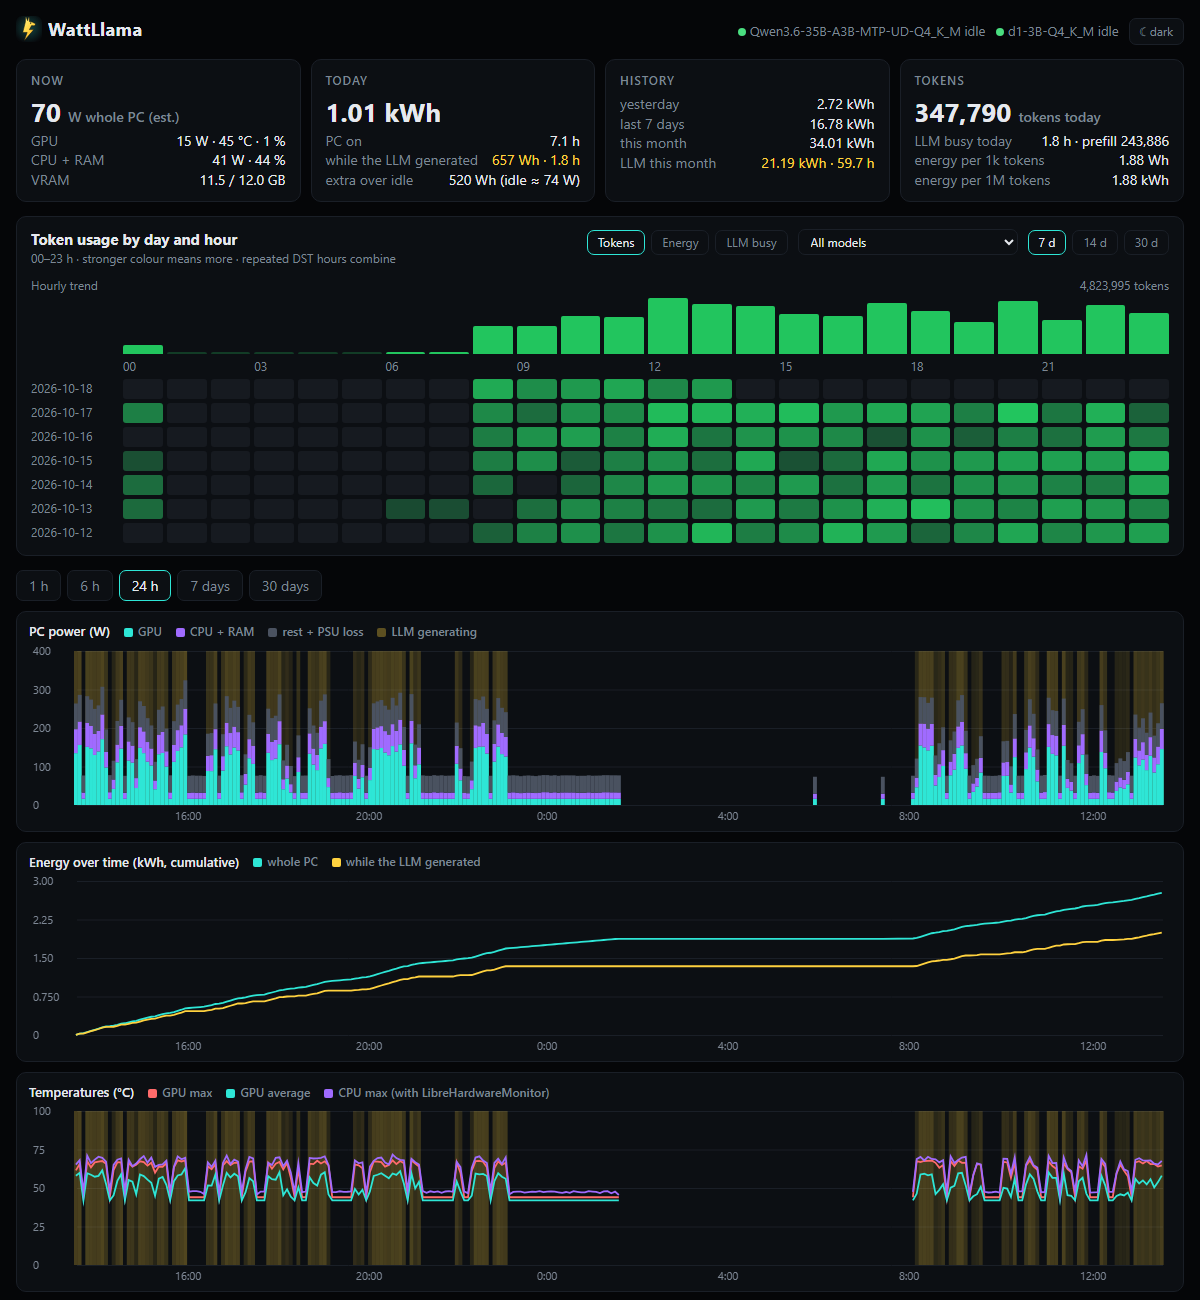
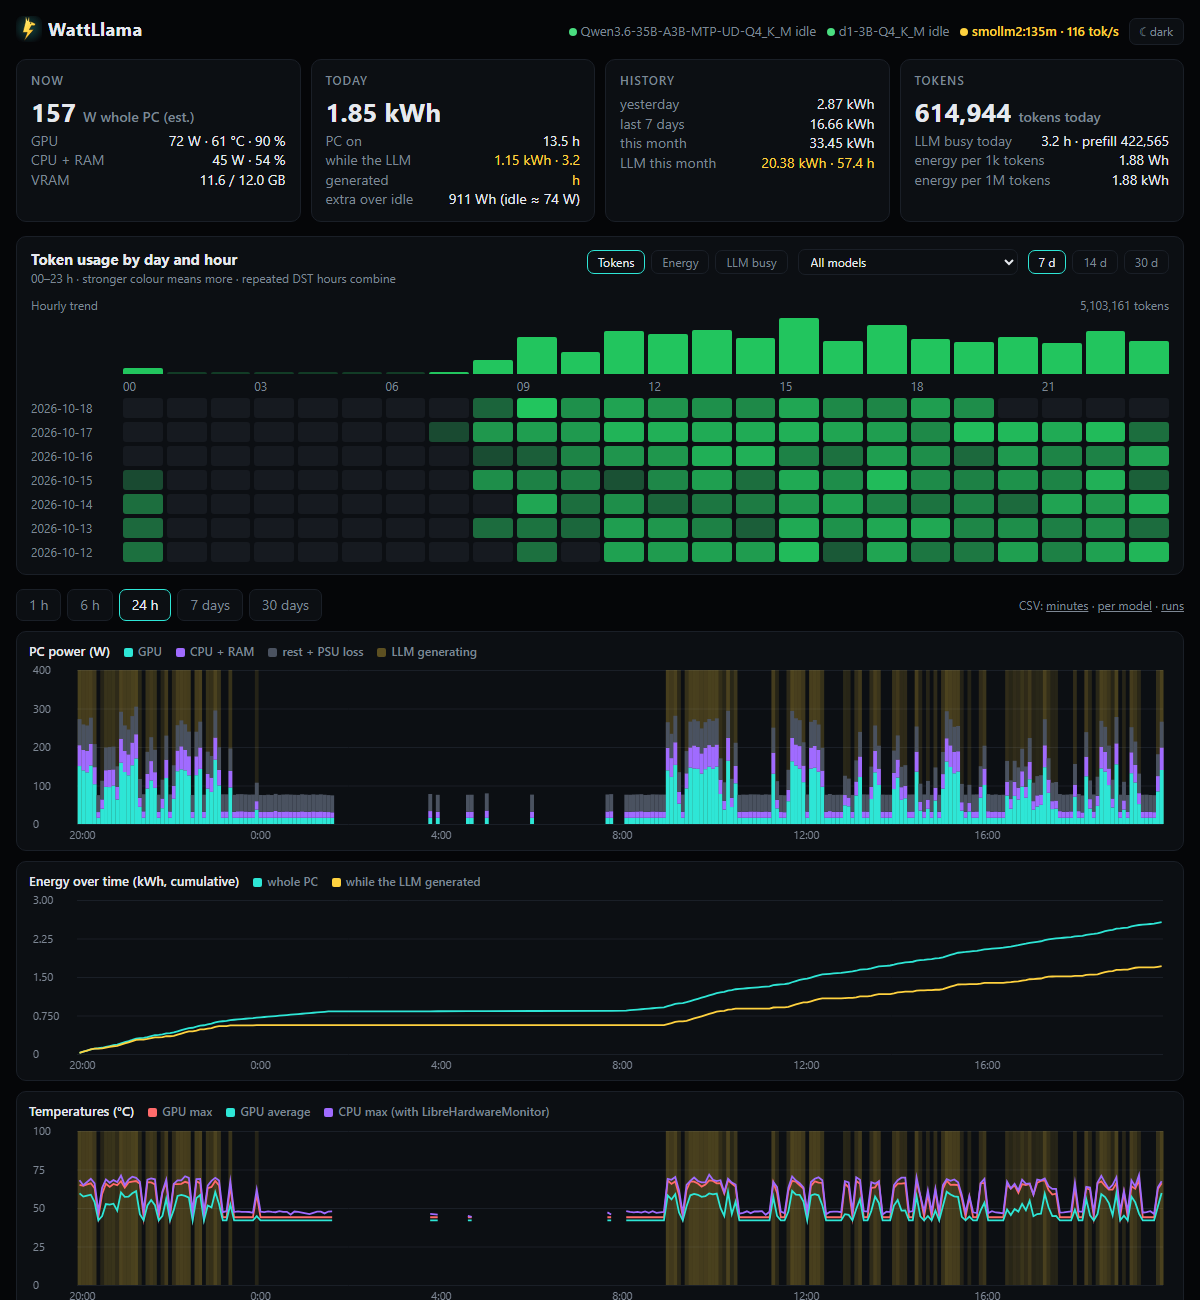
README, screenshots and tour GIF for three engines
- README: llama.cpp, Ollama and LM Studio, a Connect your engine table,
  community results, CSV export, AMD / Intel GPUs via LHM, CI badge,
  Contributing section
- docs/tour.gif (3 MB): scroll through the page, dark then light
- Fresh screenshots with llama.cpp and Ollama models side by side and
  the Share your result box; pi and scheduled-task sections left out
- install.ps1 reports which engines are running
- .env.example documents the new engine settings

Claude-Session: https://claude.ai/code/session_01YHG7T2pdjgU3CK5mz3QJLH

diff --git a/docs/social-preview.html b/docs/social-preview.html
@@ -35,7 +35,7 @@
   <div class="left">
     <div class="brand"><img src="logo.svg" alt=""><h1>Watt<span>Llama</span></h1></div>
     <div class="tag">How many watts does your <b>local LLM</b> really burn?</div>
-    <div class="sub">Live power, temperature and energy-per-token dashboard<br>for Windows + llama.cpp</div>
+    <div class="sub">Live power, temperature and energy-per-token dashboard<br>for Windows · llama.cpp · Ollama · LM Studio</div>
     <div class="chips"><span class="y">⚡ Wh / 1k tokens</span><span>no admin</span><span>no drivers</span><span>0 dependencies</span></div>
   </div>
 </body>

diff --git a/README.md b/README.md
@@ -6,19 +6,21 @@
 
 <p align="center">
   <b>How many watts does your local LLM really burn?</b><br>
-  A live power, temperature and token dashboard for Windows PCs running llama.cpp.<br>
+  A live power, temperature and energy-per-token dashboard for Windows PCs running
+  <b>llama.cpp</b>, <b>Ollama</b> or <b>LM Studio</b>.<br>
   No drivers, no admin rights, no Docker, no npm packages. One small Node.js process.
 </p>
 
 <p align="center">
+  <a href="https://github.com/depthark/wattllama/actions/workflows/ci.yml"><img alt="CI" src="https://github.com/depthark/wattllama/actions/workflows/ci.yml/badge.svg"></a>
   <img alt="Windows 10/11" src="https://img.shields.io/badge/Windows-10%20%7C%2011-0078D4">
   <img alt="Node.js 22.13+" src="https://img.shields.io/badge/Node.js-22.13%2B-339933">
-  <img alt="llama.cpp" src="https://img.shields.io/badge/llama.cpp-server%20%26%20router-ffd23f">
+  <img alt="Engines" src="https://img.shields.io/badge/engines-llama.cpp%20%7C%20Ollama%20%7C%20LM%20Studio-ffd23f">
   <img alt="0 dependencies" src="https://img.shields.io/badge/dependencies-0-2ee6d6">
   <img alt="MIT" src="https://img.shields.io/badge/license-MIT-a06bff">
 </p>
 
-![WattLlama dark theme](docs/screenshot-dark.png)
+![WattLlama tour: overview, hardware, models, light and dark theme](docs/tour.gif)
 
 ## Why
 
@@ -33,36 +35,43 @@ WattLlama answers the questions a local-LLM user actually has:
 - **Is my GPU power limit costing me speed?** Generate at different limits and the efficiency table
   shows tokens per second and tokens per Wh for each, the "same speed for 100 W less" check
   from GPU undervolting videos, but for LLM inference.
-- **What exactly is running?** Every loaded model with its real llama.cpp arguments, and how hot
-  everything gets.
+- **How does my PC compare?** Share your numbers in one click to the [community results](RESULTS.md).
+
+It does not matter which chat app, agent or IDE plugin you use: WattLlama watches the **engine**,
+so every client that talks to it is counted.
 
 ## Features
 
 | | |
 |---|---|
 | ⚡ **Power** | Whole-PC watts (GPU, CPU package, RAM measured; rest + PSU loss estimated), history from 1 hour to 30 days, cumulative energy curve |
-| 🦙 **Every model separately** | Router mode with several models (e.g. a chat model on the GPU and a small classifier on the CPU): live state, tok/s, requests, tokens in/out, busy time, energy while busy |
+| 🦙 **Every model separately** | llama.cpp (server or router), Ollama and LM Studio, several models and engines at once: live state, tok/s, requests, tokens in/out, busy time, energy while busy |
 | 🔥 **Heatmap** | Day × hour grid of tokens, energy or busy time for all models or one, 7 / 14 / 30 days |
-| 🌡 **Hardware** | GPU temperature, fan, clocks, VRAM, P-state, PCIe link, *why it is throttled*; CPU load, effective clock, RAM, disk I/O. CPU core temperatures, fans and SSD temperatures via [LibreHardwareMonitor](https://github.com/LibreHardwareMonitor/LibreHardwareMonitor) (optional) |
+| 🌡 **Hardware** | NVIDIA: temperature, fan, clocks, VRAM, P-state, PCIe link, *why it is throttled*. CPU load, effective clock, RAM, disk I/O. With [LibreHardwareMonitor](https://github.com/LibreHardwareMonitor/LibreHardwareMonitor) (optional): CPU core temperatures, fans, SSDs, and **AMD Radeon / Intel Arc** GPU power |
 | 🎚 **GPU power limit** | Optional: set the NVIDIA power limit from the page (UAC-confirmed, safe range) and compare efficiency per limit |
 | 📋 **Runs** | One row per generation run: model, duration, requests, tokens, tok/s, Wh, Wh per 1k tokens |
-| ⚙ **Setup at a glance** | llama.cpp arguments per model (secrets masked), [pi](https://github.com/badlogic/pi-mono) agent settings (tools, skills, extensions) if you use it, chosen Windows scheduled tasks with last/next run |
+| 🏆 **Community results** | Turn your numbers into a prefilled GitHub issue for [RESULTS.md](RESULTS.md); you see exactly what is shared |
+| ⚙ **Setup at a glance** | The real arguments each model runs with (secrets masked), [pi](https://github.com/badlogic/pi-mono) agent settings if you use it, chosen Windows scheduled tasks with last/next run |
+| 📤 **CSV export** | Minutes, per-model minutes and runs, for your own spreadsheets |
 | 🌓 **Light & dark** | Follows Windows, or pick one |
 | 🪶 **Featherweight** | Measured: **0.02 % CPU, ~150 MB RAM** in total; generation speed unchanged (54–60 tok/s with and without it) |
 
 <details>
-<summary>More screenshots</summary>
+<summary>Screenshots</summary>
 
+![Dark theme](docs/screenshot-dark.png)
 ![Light theme](docs/screenshot-light.png)
 ![Hardware and power limit](docs/hardware.png)
-![Models with their llama.cpp arguments](docs/models.png)
+![Models from llama.cpp and Ollama side by side, with their arguments](docs/models.png)
+![Share your result](docs/share.png)
 
 </details>
 
 ## Install
 
 Requirements: Windows 10 (1809+) or 11, [Node.js](https://nodejs.org) 22.13 or newer
-(`winget install OpenJS.NodeJS.LTS`). An NVIDIA GPU and llama.cpp are optional; without them you get CPU and system power only.
+(`winget install OpenJS.NodeJS.LTS`). A GPU and an inference engine are optional; without them you
+get CPU and system power only.
 
 ```powershell
 git clone https://github.com/depthark/wattllama
@@ -70,29 +79,49 @@ cd wattllama
 powershell -ExecutionPolicy Bypass -File .\install.ps1
 ```
 
-The installer checks what your PC can measure, creates `.env`, registers a scheduled task that
-starts WattLlama when you log in (current user, no admin), and opens **http://127.0.0.1:8091**.
+The installer checks what your PC can measure and which engines are running, creates `.env`,
+registers a scheduled task that starts WattLlama when you log in (current user, no admin), and
+opens **http://127.0.0.1:8091**.
 
 Just want to look first? `node server.mjs --demo` serves the page with 14 days of sample history
 (in memory, nothing saved).
 
 Uninstall: `.\uninstall.ps1` (keeps your history in `data\`; add `-RemoveData` to delete it).
 
-### Connect llama.cpp
+## Connect your engine
 
-It works with a single `llama-server` and with the router (`--models-dir` / `--models-preset`),
-with any number of loaded models. Point it at the server in `.env`:
+All three are found automatically on their default ports. An engine that is not running costs
+nothing; it is asked again every 10 s and appears when you start it.
 
-```ini
-DASH_LLAMA_URL=http://127.0.0.1:8080
-```
+| Engine | Found at | Tokens | Generating now |
+|---|---|---|---|
+| **llama.cpp** `llama-server`, router too | `DASH_LLAMA_URL` (:8080) | exact from its log (`DASH_LLAMA_LOG`) or `--metrics`; else `/slots` (close) | `/slots` |
+| **Ollama** (the app or `ollama serve`) | `OLLAMA_HOST` or :11434 | exact from `%LOCALAPPDATA%\Ollama\server.log`; else `/slots` (close) | the model's llama-server `/slots` |
+| **LM Studio** (Developer → Start server) | `DASH_LMSTUDIO_URL` (:1234) | exact, LM Studio's own stats via `lms log stream` | between a prediction's start and end |
 
-Token counts, best source first:
+<details>
+<summary>Details per engine</summary>
 
-1. **`DASH_LLAMA_LOG`** = the file llama-server's output is redirected to. Exact, per model, also for
-   models that produce no text (classifiers, embeddings).
-2. **`--metrics`** on the server. Exact.
-3. Otherwise `/slots`. Close, but the last moments of each reply can be missed.
+**llama.cpp.** Works with a single `llama-server` and with the router (`--models-dir` /
+`--models-preset`) with any number of loaded models. For exact counts, redirect the server's output
+to a file and point `DASH_LLAMA_LOG` at it, or start it with `--metrics`. If it uses `--api-key`,
+set `DASH_LLAMA_API_KEY`. WattLlama never asks the router about a model that is not loaded, because
+that would load it.
+
+**Ollama.** Recent Ollama (tested with 0.40.6) runs each model as an upstream llama-server process and writes its
+output to `server.log`, which gives the same exact counts. The **prefill** column counts tokens that
+were actually computed; prompt-cache hits are not counted (Ollama's `prompt_eval_count` includes them).
+Models served by another Ollama runner show as loaded, without token counts.
+
+**LM Studio.** Token counts need the `lms` CLI, which LM Studio installs in
+`%USERPROFILE%\.lmstudio\bin`. WattLlama starts `lms log stream` only while the server answers and
+always with an explicit port, so it never launches LM Studio. Prompts and replies pass through that
+stream; WattLlama reads only the model name and the numbers, and never stores, logs or shows text.
+
+**Something else?** vLLM, KoboldCpp, llama-swap, Jan, … An adapter is one file:
+see [CONTRIBUTING.md](CONTRIBUTING.md#adding-an-engine).
+
+</details>
 
 ### Phone / other devices
 
@@ -104,16 +133,18 @@ Serves on your network, adds a firewall rule for private networks only, and sets
 token. It prints a link to open once on the phone. Handy because a browser tab on the same PC
 uses some VRAM, which matters when the model fills the card.
 
-### CPU temperatures, fans, SSDs
+### CPU temperatures, fans, SSDs, AMD and Intel GPUs
 
-Windows has no driver-free way to read CPU core temperatures. Run
+Windows has no driver-free way to read CPU core temperatures, or the power of AMD and Intel GPUs. Run
 [LibreHardwareMonitor](https://github.com/LibreHardwareMonitor/LibreHardwareMonitor), enable
 *Options → Remote Web Server → Run*, and set `DASH_LHM_URL=http://127.0.0.1:8085`. Every temperature
-and fan it sees shows up, and CPU temperature joins the history chart.
+and fan it sees shows up, CPU temperature joins the history chart, and discrete Radeon and Arc cards
+get a GPU card and count towards whole-PC watts. (Integrated graphics are already inside the CPU
+package power.)
 
 ### GPU power limit
 
-Off by default. With `DASH_ALLOW_POWER_LIMIT=1` the GPU card gets a slider:
+Off by default. With `DASH_ALLOW_POWER_LIMIT=1` each NVIDIA card gets a slider:
 
 - only from the PC itself (not from the network), only from WattLlama's own page;
 - only between **60 % of the card's default** and its maximum, inside the range NVIDIA's driver allows;
@@ -127,25 +158,27 @@ Then run your usual prompts at a few limits and read the *Efficiency by GPU powe
 
 | What | Source | Accuracy |
 |---|---|---|
-| GPU power, temperature, clocks, VRAM, throttle reasons | `nvidia-smi` streaming every 2 s, one process | measured |
+| NVIDIA GPU power, temperature, clocks, VRAM, throttle reasons | `nvidia-smi` streaming every 2 s, one process | measured |
+| AMD / Intel Arc GPU power, temperature, load, VRAM | LibreHardwareMonitor (optional) | measured |
 | CPU package and RAM power | Windows *Energy Meter* (RAPL) counters where Windows exposes them (most Intel desktop CPUs), read through the PDH API with English counter names, so any Windows display language works | measured |
 | CPU load, effective clock, disk I/O, ACPI zone | Windows performance counters | measured |
 | Rest of the PC (motherboard, disks, fans) | `DASH_REST_W` (35 W) | estimate |
 | Power supply loss | divided by `DASH_PSU_EFF` (0.88) | estimate |
 | Monitor | not counted | |
 | CPU power on PCs without RAPL counters | from load × `DASH_CPU_MAX_W` | estimate, marked "(est.)" |
-| Non-NVIDIA GPUs | add their typical draw to `DASH_REST_W` | estimate |
+| Tokens, requests, generating or not | the engine, see [Connect your engine](#connect-your-engine) | exact or close |
 
 For exact wall-socket numbers, nothing beats a smart plug with energy metering; WattLlama tells you
 *where* the watts go and how much of it the LLM caused.
 
-History lives in `data/power.db` (SQLite, built into Node.js): one row per minute, roughly 5–7 MB a month.
+History lives in `data/power.db` (SQLite, built into Node.js): one row per minute, roughly 5–7 MB a
+month. Export it as CSV from the links next to the chart ranges.
 
 ## Compared with popular tools
 
 | | LLM tokens & energy per token | Power history (kWh) | GPU + CPU sensors | Windows, no admin | Setup |
 |---|---|---|---|---|---|
-| **WattLlama** | ✅ per model, per run | ✅ | ✅ (+ LHM) | ✅ | one script |
+| **WattLlama** | ✅ per model, per run, 3 engines | ✅ | ✅ (+ LHM) | ✅ | one script |
 | [MSI Afterburner](https://www.msi.com/Landing/afterburner/graphics-cards) | ❌ | ❌ (log file) | ✅ GPU | admin | GUI app |
 | [HWiNFO](https://www.hwinfo.com) | ❌ | ❌ (CSV log) | ✅ | admin driver | GUI app |
 | [LibreHardwareMonitor](https://github.com/LibreHardwareMonitor/LibreHardwareMonitor) | ❌ | ❌ | ✅ | admin driver | GUI app (WattLlama can read it) |
@@ -153,7 +186,7 @@ History lives in `data/power.db` (SQLite, built into Node.js): one row per minut
 | [btop](https://github.com/aristocratos/btop) / [Glances](https://github.com/nicolargo/glances) | ❌ | ❌ | ✅ | partly | terminal / web |
 | [Beszel](https://github.com/henrygd/beszel) | ❌ | ✅ | ✅ | agent | hub + agent |
 | Grafana + exporters | with work | ✅ | ✅ | services | 3+ services |
-| LM Studio / llama.cpp web UI | tok/s per message | ❌ | ❌ | ✅ | built in |
+| LM Studio / Ollama / llama.cpp UIs | tok/s per message | ❌ | ❌ | ✅ | built in |
 
 WattLlama does not replace a hardware monitor; it connects the watts to the tokens.
 
@@ -168,11 +201,13 @@ WattLlama is a read-only monitor that runs as your user.
 - **DNS-rebinding protection**: requests whose `Host` is a foreign domain are refused, so a website
   you visit cannot read the dashboard through your browser.
 - Never shows secrets: `--api-key` and similar arguments are masked, file paths are shortened to
-  file names, pi's `auth.json` and API keys are never read.
+  file names, pi's `auth.json` and API keys are never read, prompts and replies are never stored.
+- Nothing is sent anywhere. *Share your result* only opens a GitHub page with what you saw.
 - The single optional write action (GPU power limit) is described above: off by default, local
   only, same-origin with a custom header (blocks CSRF), range-checked, UAC-confirmed.
 - Crash-safe: an unexpected error is logged and the process restarts; it never touches drivers,
   clocks, fans or voltages.
+- CI runs the HTTP security rules as tests on every change.
 
 See [SECURITY.md](SECURITY.md) for reporting.
 
@@ -183,16 +218,28 @@ Everything lives in `.env` (see [.env.example](.env.example)); all settings are 
 | Setting | Default | |
 |---|---|---|
 | `DASH_HOST` / `DASH_PORT` | `127.0.0.1` / `8091` | where the page is served |
-| `DASH_LLAMA_URL` | `http://127.0.0.1:8080` | llama.cpp server or router; empty = power only |
+| `DASH_ENGINES` | `auto` | or a list, e.g. `ollama,lm studio` |
+| `DASH_LLAMA_URL` | `http://127.0.0.1:8080` | llama.cpp server or router; empty = off |
 | `DASH_LLAMA_LOG` | – | llama-server log file, for exact token counts |
 | `DASH_LLAMA_API_KEY` | – | if the server uses `--api-key` |
+| `DASH_OLLAMA_URL` | `OLLAMA_HOST` or `:11434` | empty = off |
+| `DASH_OLLAMA_LOG` | `%LOCALAPPDATA%\Ollama\server.log` | Ollama's log, for exact token counts |
+| `DASH_LMSTUDIO_URL` | `http://127.0.0.1:1234` | empty = off |
+| `DASH_LMSTUDIO_API_KEY` / `DASH_LMSTUDIO_LMS` | – / found | if the server requires a token / path to `lms` |
 | `DASH_REST_W` / `DASH_PSU_EFF` | `35` / `0.88` | the estimated part |
 | `DASH_CPU_MAX_W` | `65` | only used without RAPL counters |
 | `DASH_LHM_URL` | – | LibreHardwareMonitor web server |
-| `DASH_ALLOW_POWER_LIMIT` | `0` | GPU power limit control |
+| `DASH_ALLOW_POWER_LIMIT` | `0` | NVIDIA power limit control |
 | `DASH_TOKEN` | – | require a token (set by `-AllowLan`) |
 | `DASH_TASKS` | – | scheduled tasks to show, e.g. `Backup*,MyLLM` |
 | `DASH_PI_DIR` | `~/.pi/agent` | pi agent settings |
+
+## Contributing
+
+Help is very welcome, and much of it needs no code: **share a result** from your PC, or **report how
+it measures** on an AMD / Intel GPU, an AMD CPU or a laptop. New engines are one file each.
+Everything is in [CONTRIBUTING.md](CONTRIBUTING.md); look for
+[`good first issue`](https://github.com/depthark/wattllama/labels/good%20first%20issue).
 
 ## License
 
